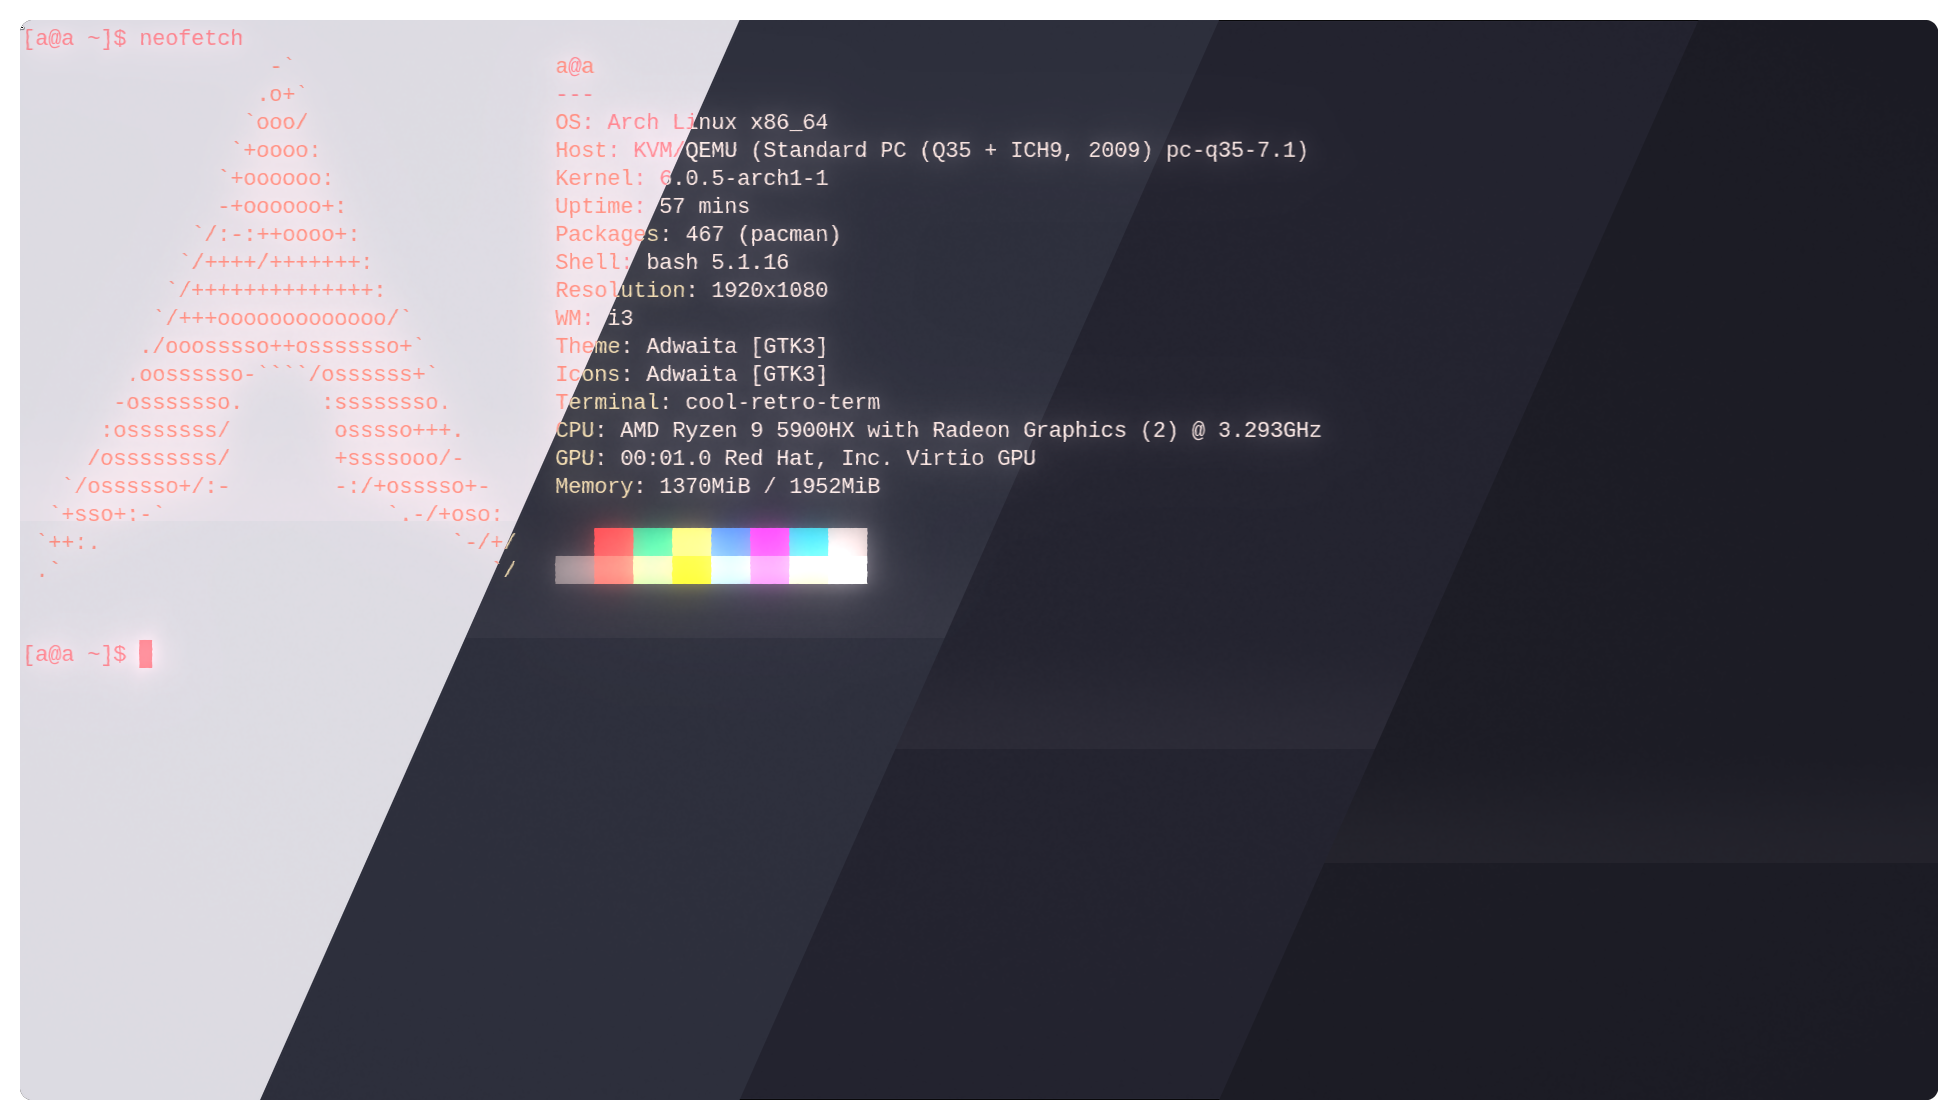
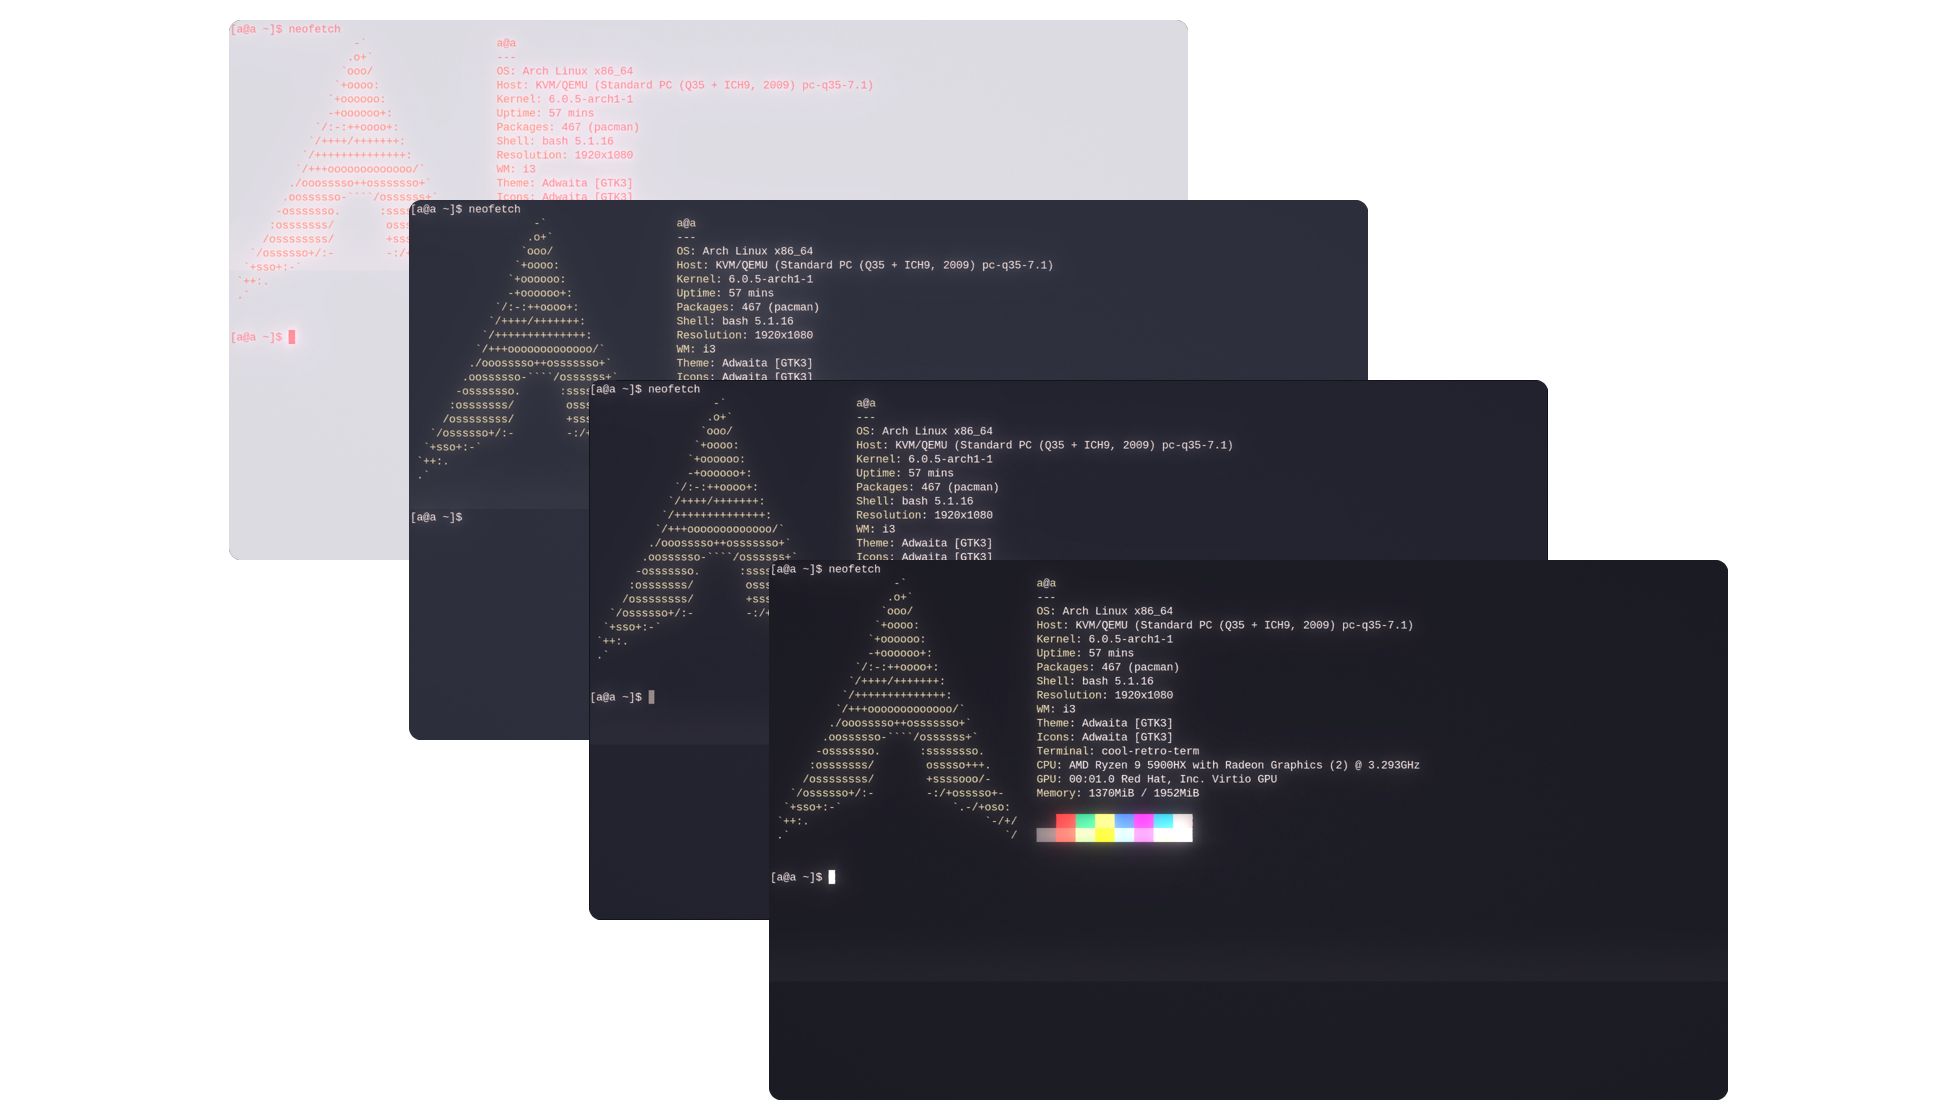
changed from composite to stacked catwalk

diff --git a/README.md b/README.md
@@ -45,7 +45,7 @@
 
 ## 💝 Thanks to
 
-- [Iván Ruzo](https://gitlab.com/iruzo)
+- [Iván Ruzo](https://github.com/iruzo)
 
 &nbsp;
 
